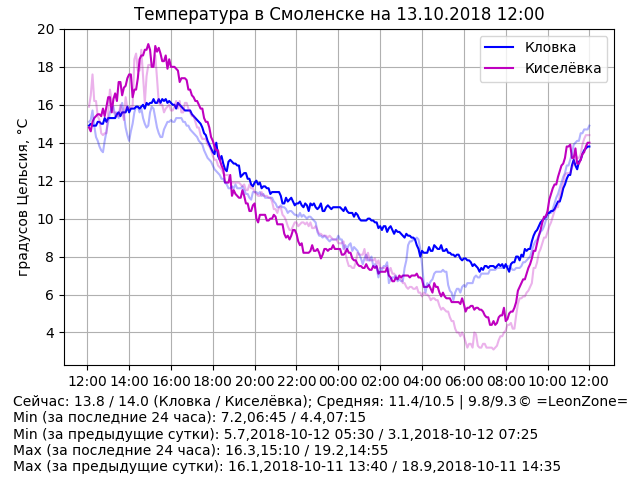
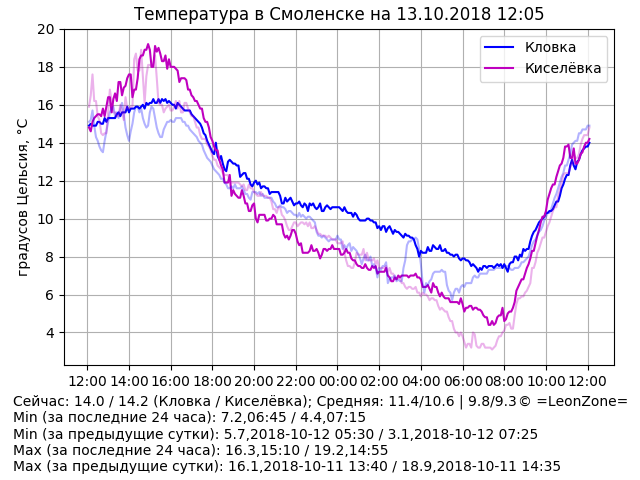
Update data

diff --git a/index.html b/index.html
@@ -14,7 +14,7 @@
 	<p align="center"><script>document.write("<img src=\"graph.png?rnd="+Math.random()+"\" alt=\"Температура в Смоленске\" align=\"middle\" width=\"640\" height=\"480\" />")</script>
 	<p hidden="true">
 <!-- textinfo -->
-Сейчас: 13.8 / 14.0 (Кловка / Киселёвка); Средняя: 11.4/10.5 | 9.8/9.3
+Сейчас: 14.0 / 14.2 (Кловка / Киселёвка); Средняя: 11.4/10.6 | 9.8/9.3
 Min (за последние 24 часа): 7.2,06:45 / 4.4,07:15
 Min (за предыдущие сутки): 5.7,2018-10-12 05:30 / 3.1,2018-10-12 07:25
 Max (за последние 24 часа): 16.3,15:10 / 19.2,14:55
